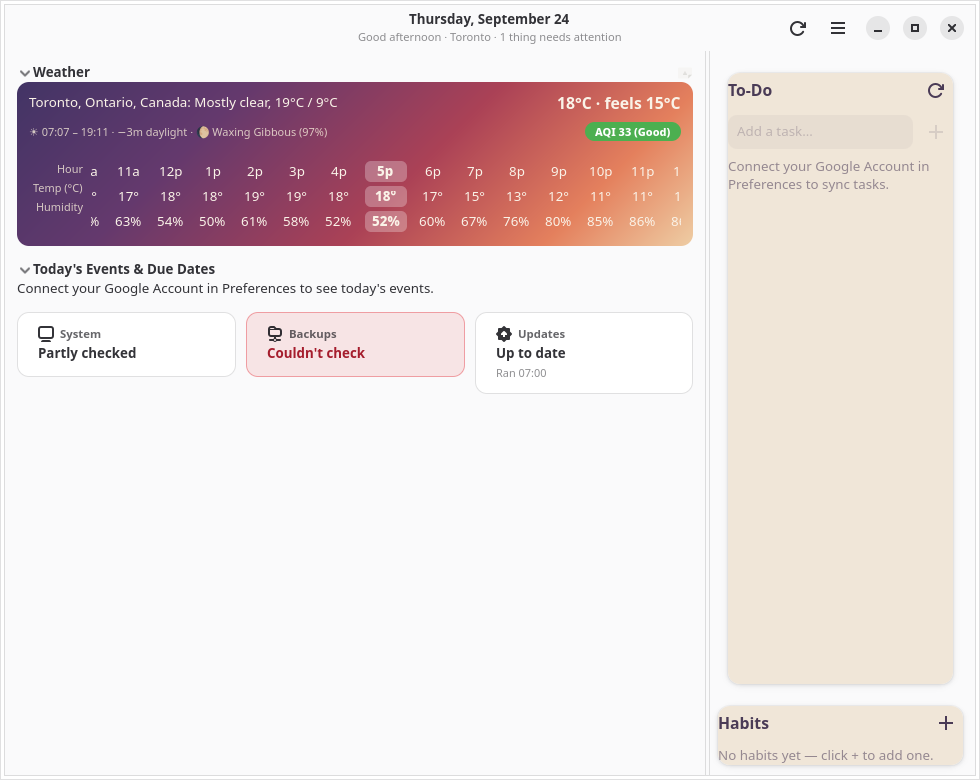
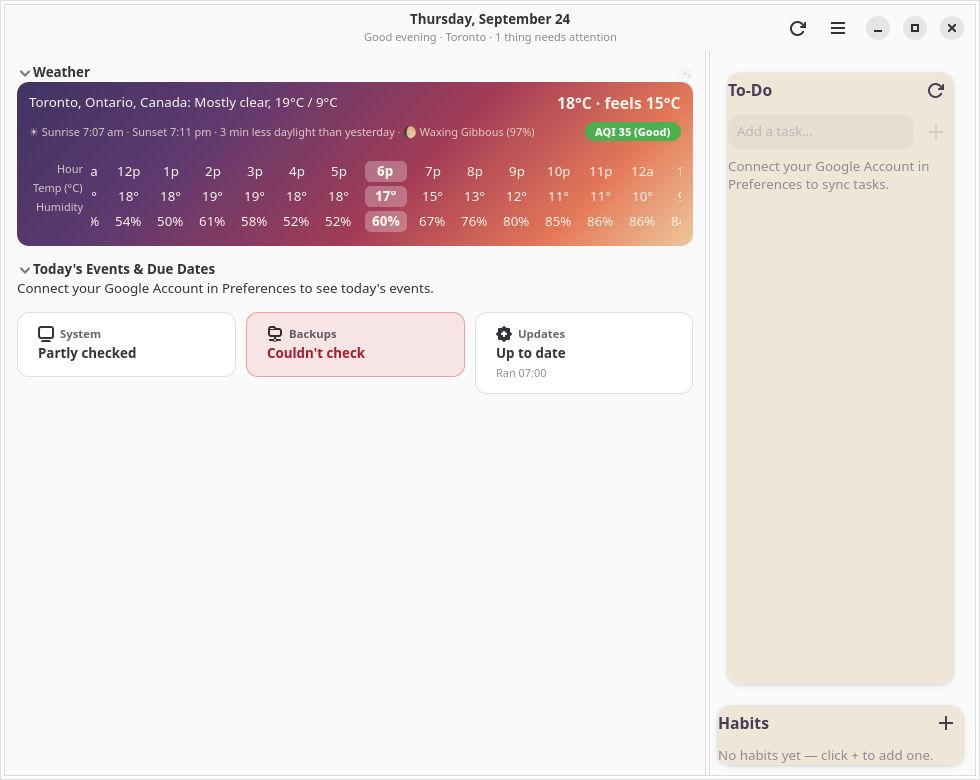
v0.18.0 "Full Picture" — disk usage bars, relative times, fixed wide-mode overflow
Claude-Session: https://claude.ai/code/session_01RiDA3U1zcT7fvFPKAcPc1n

diff --git a/zarya/zarya.py b/zarya/zarya.py
@@ -335,7 +335,6 @@ class ZaryaWindow(Adw.ApplicationWindow):
         self.health_box = Gtk.Box(orientation=Gtk.Orientation.VERTICAL, spacing=4)
         self.disk_growth_box = Gtk.Box(orientation=Gtk.Orientation.VERTICAL, spacing=4)
         self.system_detail_body = Gtk.Box(orientation=Gtk.Orientation.VERTICAL, spacing=10, margin_top=10, margin_bottom=10, margin_start=12, margin_end=12)
-        self.system_detail_body.set_size_request(320, -1)
         self.system_detail_body.append(self._popover_heading("Storage & Drives", self.fetch_system_health))
         self.system_detail_body.append(self.health_box)
         self.system_detail_body.append(Gtk.Separator())
@@ -350,7 +349,6 @@ class ZaryaWindow(Adw.ApplicationWindow):
         # Backups
         self.backup_box = Gtk.Box(orientation=Gtk.Orientation.VERTICAL, spacing=4)
         self.backups_detail_body = Gtk.Box(orientation=Gtk.Orientation.VERTICAL, spacing=10, margin_top=10, margin_bottom=10, margin_start=12, margin_end=12)
-        self.backups_detail_body.set_size_request(320, -1)
         self.backups_detail_body.append(self._popover_heading("Backups", self.fetch_backups))
         self.backups_detail_body.append(self.backup_box)
         open_pereprava_button = Gtk.Button(label="Open Pereprava", halign=Gtk.Align.START)
@@ -366,7 +364,6 @@ class ZaryaWindow(Adw.ApplicationWindow):
         # entirely inside this card's popover (or inline, in the wide
         # layout — see _on_wide_layout).
         self.updates_detail_body = Gtk.Box(orientation=Gtk.Orientation.VERTICAL, spacing=10, margin_top=10, margin_bottom=10, margin_start=12, margin_end=12)
-        self.updates_detail_body.set_size_request(360, -1)
 
         self.status_label = Gtk.Label(xalign=0)
         self.status_label.add_css_class("heading")
@@ -424,7 +421,7 @@ class ZaryaWindow(Adw.ApplicationWindow):
         self.updates_detail_body.append(log_expander)
 
         self.updates_card, self.updates_card_value, self.updates_card_detail = self._make_status_card(
-            "software-update-available-symbolic", "Updates", self.updates_detail_body,
+            "software-update-available-symbolic", "Updates", self.updates_detail_body, popover_width=360,
         )
         status_row.append(self.updates_card)
 
@@ -600,12 +597,20 @@ class ZaryaWindow(Adw.ApplicationWindow):
         row.append(refresh_button)
         return row
 
-    def _make_status_card(self, icon_name, title, popover_content):
+    def _make_status_card(self, icon_name, title, popover_content, popover_width=320):
         """A compact status card (System/Backups/Updates): a title, a
         one-line value, and an optional detail line, all on a MenuButton
         face whose popover holds the full detail — folds what used to be
         several always-expanded sections (plus the bottom button row, for
-        Updates) into something that only takes space when clicked."""
+        Updates) into something that only takes space when clicked.
+
+        `popover_width` sizes the *popover* itself, not the detail-body
+        widget it holds — that widget is the same one reused inline in the
+        wide layout (see _on_wide_layout), so it must stay free of any
+        fixed width of its own or it forces the wide grid's columns
+        (and, via them, the whole main content area) wider than the window,
+        pushing the sidebar off-screen on a merely-wide-enough-to-trigger-
+        the-breakpoint window. A real bug, found from a live screenshot."""
         card = Gtk.MenuButton()
         card.add_css_class("status-card")
         card.add_css_class("flat")
@@ -633,6 +638,7 @@ class ZaryaWindow(Adw.ApplicationWindow):
         card.set_child(box)
 
         popover = Gtk.Popover()
+        popover.set_size_request(popover_width, -1)
         popover.set_child(popover_content)
         card.set_popover(popover)
 
@@ -990,13 +996,14 @@ class ZaryaWindow(Adw.ApplicationWindow):
         sunset = weather.format_sun_time(d.get("sunset"))
         sun_pieces = []
         if sunrise and sunset:
-            sun_pieces.append(f"☀ {sunrise} – {sunset}")
+            sun_pieces.append(f"☀ Sunrise {sunrise} · Sunset {sunset}")
         delta = weather.day_length_delta_minutes(
             d.get("sunrise"), d.get("sunset"), d.get("sunrise_yesterday"), d.get("sunset_yesterday"),
         )
         if delta is not None and round(delta) != 0:
-            sign = "+" if delta > 0 else "−"
-            sun_pieces.append(f"{sign}{abs(round(delta))}m daylight")
+            minutes = abs(round(delta))
+            comparison = "more" if delta > 0 else "less"
+            sun_pieces.append(f"{minutes} min {comparison} daylight than yesterday")
         moon = weather.moon_phase()
         sun_pieces.append(f"{moon['emoji']} {moon['name']} ({moon['illumination']:.0f}%)")
         self.weather_sun_label.set_label(" · ".join(sun_pieces))
@@ -1093,28 +1100,59 @@ class ZaryaWindow(Adw.ApplicationWindow):
             state_label = Gtk.Label(label=STATE_LABELS.get(state, state))
             state_label.add_css_class(STATE_COLORS.get(state, "dim-label"))
             row.append(state_label)
-            last_run_text = self._format_backup_time(job.get("last_run")) or job.get("last_run_text")
+            last_run_text, last_run_abs = self._format_backup_time(job.get("last_run"))
+            last_run_text = last_run_text or job.get("last_run_text")
             if last_run_text:
                 last_run_label = Gtk.Label(label=f"last {last_run_text}")
                 last_run_label.add_css_class("dim-label")
+                if last_run_abs:
+                    last_run_label.set_tooltip_text(last_run_abs)
                 row.append(last_run_label)
-            next_run_text = self._format_backup_time(job.get("next_run"))
+            next_run_text, next_run_abs = self._format_backup_time(job.get("next_run"))
             if next_run_text:
                 next_run_label = Gtk.Label(label=f"next {next_run_text}")
                 next_run_label.add_css_class("dim-label")
+                if next_run_abs:
+                    next_run_label.set_tooltip_text(next_run_abs)
                 row.append(next_run_label)
             self.backup_box.append(row)
         self._update_window_title()
 
     @staticmethod
     def _format_backup_time(epoch_micros):
+        """Returns (relative_text, absolute_text) — e.g. ("12 h ago",
+        "2026-09-24 06:08") — or (None, None). The relative text is what's
+        shown; the absolute is set as a tooltip, since "12 h ago" alone
+        loses the actual time a glance at the raw timestamp used to give."""
         if not isinstance(epoch_micros, (int, float)) or epoch_micros <= 0:
-            return None
+            return None, None
         try:
             dt = datetime.datetime.fromtimestamp(epoch_micros / 1_000_000)
-            return dt.strftime("%Y-%m-%d %H:%M")
         except (OverflowError, OSError, ValueError):
-            return None
+            return None, None
+
+        now = datetime.datetime.now()
+        absolute = dt.strftime("%Y-%m-%d %H:%M")
+        future = dt > now
+        seconds = abs((dt - now).total_seconds())
+
+        if seconds < 60:
+            relative = "in a moment" if future else "just now"
+        elif seconds < 3600:
+            n = round(seconds / 60)
+            relative = f"in {n} min" if future else f"{n} min ago"
+        elif dt.date() == now.date():
+            n = round(seconds / 3600)
+            relative = f"in {n} h" if future else f"{n} h ago"
+        elif dt.date() == now.date() + datetime.timedelta(days=1):
+            relative = f"tomorrow {dt.strftime('%H:%M')}"
+        elif dt.date() == now.date() - datetime.timedelta(days=1):
+            relative = f"yesterday {dt.strftime('%H:%M')}"
+        elif seconds < 7 * 86400:
+            relative = dt.strftime("%A") if future else f"last {dt.strftime('%A')}"
+        else:
+            relative = dt.strftime("%b %-d")
+        return relative, absolute
 
     # --- disk growth ---
 
@@ -1333,6 +1371,7 @@ class ZaryaWindow(Adw.ApplicationWindow):
                     icon_name, css_class = "dialog-warning-symbolic", "warning"
                 else:
                     icon_name, css_class = "drive-harddisk-symbolic", "dim-label"
+                column = Gtk.Box(orientation=Gtk.Orientation.VERTICAL, spacing=3)
                 row = Gtk.Box(orientation=Gtk.Orientation.HORIZONTAL, spacing=8)
                 icon = Gtk.Image(icon_name=icon_name)
                 icon.add_css_class(css_class)
@@ -1342,7 +1381,16 @@ class ZaryaWindow(Adw.ApplicationWindow):
                     xalign=0, hexpand=True,
                 )
                 row.append(label)
-                self.health_box.append(row)
+                column.append(row)
+
+                level = Gtk.LevelBar(min_value=0, max_value=100, value=pct)
+                level.add_css_class("disk-level")
+                if critical:
+                    level.add_css_class("error")
+                elif warning:
+                    level.add_css_class("warning")
+                column.append(level)
+                self.health_box.append(column)
 
         if self._health_drives_error:
             error_label = Gtk.Label(label=f"Couldn't check drive health: {self._health_drives_error}", xalign=0, wrap=True)

diff --git a/zarya/styles.py b/zarya/styles.py
@@ -227,6 +227,16 @@ FONDWAVE_CSS = f"""
 .cal-dot-3 {{ background-color: #9141ac; }}
 .cal-dot-4 {{ background-color: #8B2F5C; }}
 .cal-dot-5 {{ background-color: #1a5fb4; }}
+
+/* Disk usage bars in the System card. libadwaita's own LevelBar offset
+   classes (.low/.high/.full) are the wrong semantic here — they colour
+   "full" as success-green, meant for meters where low is the bad end
+   (battery, volume). A full disk is the bad end, so severity is driven
+   directly from our own warning/critical thresholds instead of GTK's
+   offsets (never added), overriding the default not-empty (accent blue)
+   fill color only when actually warning/critical. */
+levelbar.disk-level.warning trough > block:not(.empty) {{ background-color: #e5a50a; }}
+levelbar.disk-level.error trough > block:not(.empty) {{ background-color: #e01b24; }}
 """
 
 

diff --git a/zarya/weather.py b/zarya/weather.py
@@ -81,7 +81,10 @@ def format_sun_time(iso_str):
     if not iso_str:
         return None
     try:
-        return datetime.datetime.fromisoformat(iso_str).strftime("%H:%M")
+        # 12-hour with am/pm reads more naturally than 24-hour for a
+        # sunrise/sunset line ("7:03 AM" vs "07:03") — %-I drops the
+        # leading zero.
+        return datetime.datetime.fromisoformat(iso_str).strftime("%-I:%M %p")
     except ValueError:
         return None
 

diff --git a/zarya/__init__.py b/zarya/__init__.py
@@ -1,1 +1,1 @@
-__version__ = "0.17.3"
+__version__ = "0.18.0"

diff --git a/CLAUDE.md b/CLAUDE.md
@@ -485,6 +485,53 @@ repeat(2, 1fr)` for that same Events-vs-cards split — rather than Events
 claiming most of the space and the status area being squeezed into a
 narrow fixed-width column as before.
 
+**A real overflow bug from making `wide_row` homogeneous (0.18.0)** — the
+0.17.3 fix above (`wide_row` homogeneous, Events vs. status grid split
+evenly) exposed a bug that had been latent since 0.17.0: `system_detail_body`
+(320px), `backups_detail_body` (320px) and `updates_detail_body` (360px)
+each carried a fixed `set_size_request(...)`, sized for when they were only
+ever a *popover's* content. Once the same widgets are reused inline in the
+wide grid (0.17.2), those minimums apply there too — System+Backups side by
+side each demanding ≥320px forces that whole row to ≥640px, and
+`wide_row`'s new 1:1 split then forces Events to match, so the total main
+content area could demand more width than was actually available once the
+sidebar's own width was added back in — overflowing the window and pushing
+the sidebar off-screen (confirmed from a live screenshot: the To-Do
+column's task labels were visibly clipped, showing "La", "Sc", "Se", "Wa").
+**Fixed at the root**: the size requests were moved off the shared
+detail-body widgets entirely and onto each compact card's own `Gtk.Popover`
+instead (`_make_status_card(..., popover_width=320)`, defaulting to 320,
+Updates passing 360) — a popover's width doesn't participate in the main
+window's layout at all, so it can carry a fixed size with zero effect on
+the wide grid, while the detail-body widget itself stays free to size
+purely from its content in both places it lives. General lesson for this
+"same widget, two homes" pattern (also used for `events_expander`): never
+give the *shared* widget a fixed size meant for only one of its homes —
+size the wrapper specific to that context (here, the popover) instead.
+
+**Other visual/language improvements bundled into the same 0.18.0 pass,
+also requested directly from the mockup:**
+- **Disk usage bars**: each entry in System's "Storage & Drives" now has a
+  `Gtk.LevelBar` under the usual text line. Deliberately does **not** use
+  LevelBar's built-in named offsets (`low`/`high`/`full`) — checked
+  Adwaita's actual shipped CSS (`gresource extract
+  .../libadwaita-1.so /org/gnome/Adwaita/styles/base.css`) and confirmed
+  `.full` maps to *success* (green) and `.low` to *warning*: correct for a
+  battery/volume meter where low is bad, backwards for a disk where full is
+  bad. Instead: no offsets are added, so the fill stays the default
+  not-empty accent blue; a `.disk-level` CSS class combined with our own
+  `warning`/`error` class (from the same thresholds already driving the
+  icon/text color, 85%/95%) overrides the fill color directly.
+- **Relative backup times**: `_format_backup_time` now returns
+  `(relative_text, absolute_text)` instead of one absolute string — "12 h
+  ago" / "in 11 h" / "yesterday 14:32" / "last Tuesday" / "Sep 3", with the
+  exact absolute timestamp moved to the label's tooltip rather than lost.
+- **Weather wording**: sunrise/sunset switched from 24-hour range notation
+  (`☀ 07:03 – 19:07`) to `Sunrise 7:03 AM · Sunset 7:07 PM`
+  (`weather.format_sun_time` now formats `%-I:%M %p`); the day-length delta
+  changed from the terse `−3m daylight` to the fuller `3 min less daylight
+  than yesterday`.
+
 ## Weather chart history
 
 The hourly weather display was originally a Cairo-drawn line/bar chart

diff --git a/RELEASE.md b/RELEASE.md
@@ -1,15 +1,23 @@
-# Zarya v0.17.3 "Three Up"
+# Zarya v0.18.0 "Full Picture"
 
 **Released:** 2026-09-24
 
 ## What's new
 
-- **Fixed:** the maximized wide layout still read as two columns (Today's
-  Events, one wide status strip) plus the sidebar — not the three columns
-  the layout was designed around. The status area is now a genuine
-  2-column grid: System and Backups side by side, Updates spanning the
-  full width below them. Today's Events and the status area now split the
-  available width evenly, instead of Events claiming most of it.
+- **Fixed:** the maximized wide layout's status-card area could overflow
+  the window and push the sidebar off-screen (clipped To-Do text) once
+  Today's Events and the status cards split the width evenly — a leftover
+  fixed width on the card content, sized for when it only ever lived in a
+  popover, was forcing the whole layout wider than the window.
+- **Disk usage bars:** the System card now shows a visual bar under each
+  drive's numbers, not just a percentage as text — colored amber/red at
+  the same thresholds already used elsewhere.
+- **Relative backup times:** last/next run times now read "12 h ago", "in
+  11 h", "yesterday 14:32", or "last Tuesday" instead of a raw timestamp —
+  hover for the exact time.
+- **Plainer weather language:** sunrise/sunset now reads "Sunrise 7:03 AM
+  · Sunset 7:07 PM" instead of a 24-hour range, and the day-length delta
+  reads "3 min less daylight than yesterday" instead of "−3m daylight".
 
 See [CHANGELOG.md](CHANGELOG.md) for everything since earlier releases.
 

diff --git a/README.md b/README.md
@@ -19,13 +19,15 @@ weather, your backup status, and today's calendar events — all in one window.
   and a color dot per calendar
 - System, Backups, and Updates as compact status cards — quiet when
   everything's fine, colored with a one-line detail when something needs
-  attention; click a card for the full detail (drive/battery/CPU health,
-  which home directories grew the most this week, the update log)
+  attention; click a card for the full detail (drive/battery/CPU health
+  with a visual usage bar per drive, which home directories grew the most
+  this week, relative backup run times, the update log)
 - Today's Events, System, Backups, and Updates all auto-refresh in the
   background; one refresh button in the header refreshes everything at once
-- Maximizing the window switches to a wider layout — events on the left,
-  status cards stacked in a column on the right — instead of one stretched
-  column
+- Maximizing the window switches to a genuine 3-column layout — Today's
+  Events on the left, a 2-column grid of status cards (each showing its
+  full detail inline, no click needed) on the right, sidebar beyond that —
+  instead of one stretched column
 - A sidebar combining a to-do list (synced with Google Tasks) and a small
   daily habit tracker with streaks and a weekly rollup — completed to-dos
   collapse out of the way, and delete buttons only show on hover

diff --git a/CHANGELOG.md b/CHANGELOG.md
@@ -1,5 +1,23 @@
 # Changelog
 
+## [0.18.0] "Full Picture" — disk usage bars, relative times, fixed wide-mode overflow
+
+- Fixed: the maximized wide layout's status-card area could overflow the
+  window and push the sidebar off-screen (visibly clipped To-Do text) once
+  Today's Events and the status cards were set to split the width evenly —
+  a leftover fixed minimum width on the card content, sized for when it
+  only ever lived in a popover, was forcing the whole layout wider than
+  the window.
+- Added: disk usage in the System card now shows a visual bar under each
+  drive's numbers, not just the percentage as text — colored amber/red at
+  the same 85%/95% thresholds already used elsewhere.
+- Changed: backup last/next run times are now relative ("12 h ago", "in 11
+  h", "yesterday 14:32", "last Tuesday") instead of a raw timestamp — hover
+  for the exact time.
+- Changed: the weather card's sunrise/sunset now reads "Sunrise 7:03 AM ·
+  Sunset 7:07 PM" instead of a 24-hour range, and the day-length delta
+  reads "3 min less daylight than yesterday" instead of "−3m daylight".
+
 ## [0.17.3] "Three Up" — status cards in a real 2-column grid, wide mode
 
 - Fixed: the maximized wide layout still read as two columns (Today's
